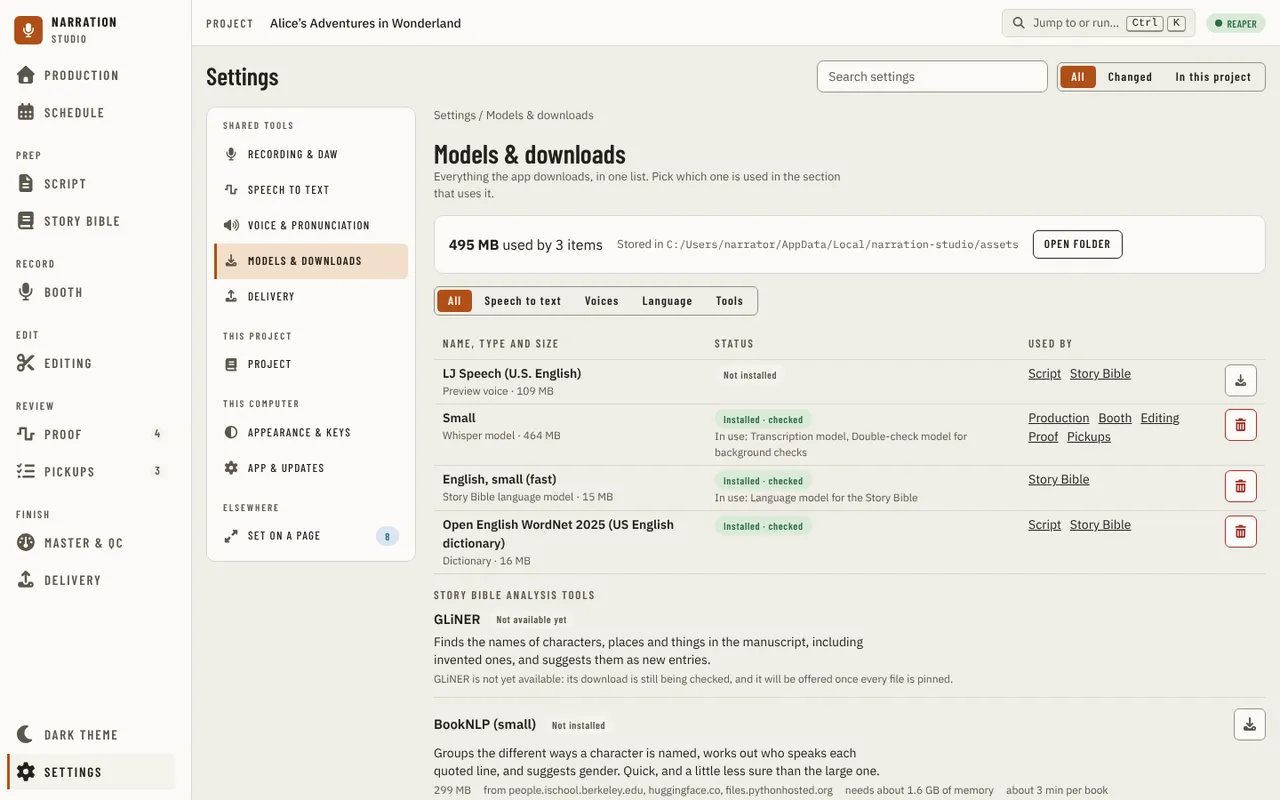
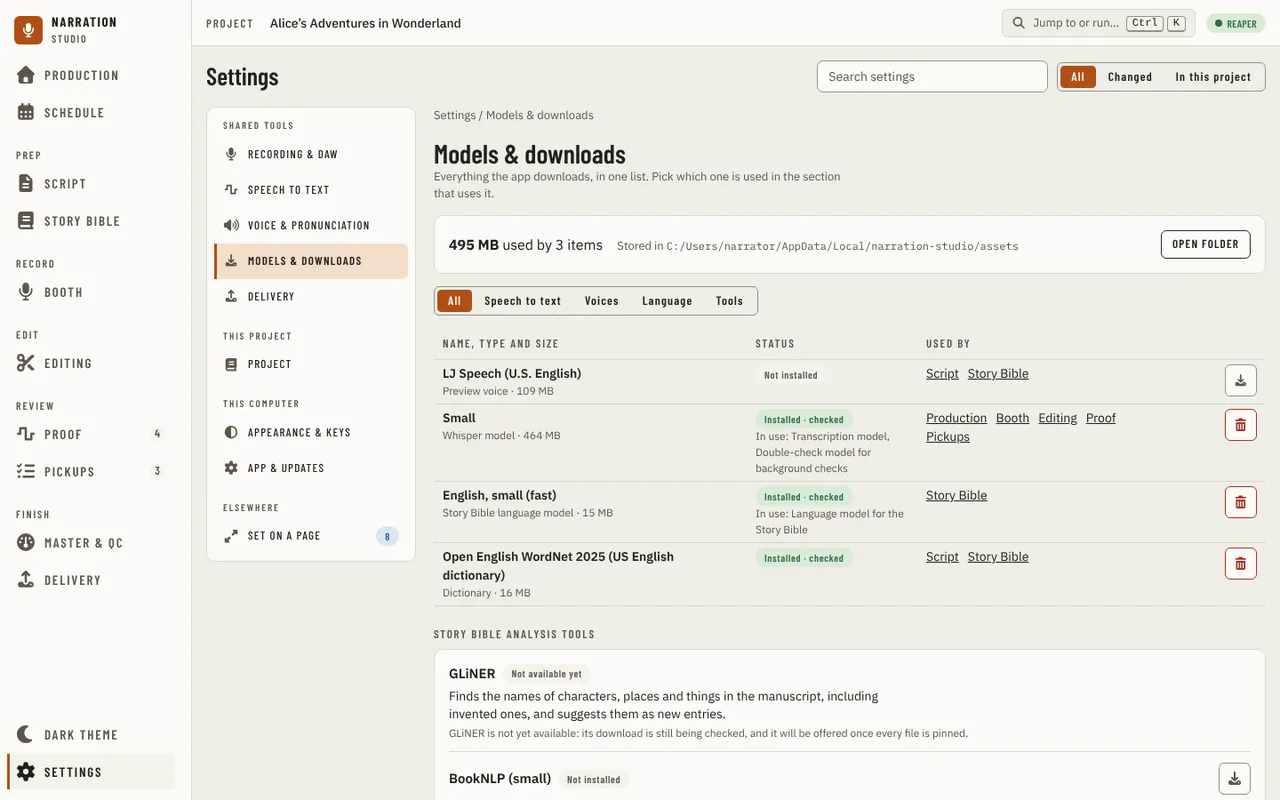
fix(settings): Models & downloads keeps fixed columns, actions beside the asset (#2388)

diff --git a/src/studio/ui/src/components/settings/models/AssetRow.tsx b/src/studio/ui/src/components/settings/models/AssetRow.tsx
@@ -9,12 +9,21 @@ import { formatSize } from '../../assets/AssetFacts';
 import { PAGE_LABEL, PAGE_PATH, type UsedPage } from '../registry/types';
 import type { AssetView } from './AssetsStore';
 
-/** Below the page's 1020px container a row is a card: each cell on its own line, named by its `data-label`. */
+/**
+ * Below the page's 1020px container a row is a card on the card surface: the name and its actions on the first line (the action stays beside
+ * the asset it acts on), then Status and Used by, each named by its `data-label` (alignment audit XSE2-27, XSE1-14).
+ */
+// The grid placement (columns, spans, the first line) and the radius are unprefixed: a table row and its cells ignore them, so only the card
+// layout below 1020px uses them, and the page keeps to its count of off-vocabulary width variants (layoutQueries.test.ts).
 const CARD_ROW =
-  '@max-[1020px]:mb-2.5 @max-[1020px]:block @max-[1020px]:rounded-lg @max-[1020px]:border @max-[1020px]:border-[var(--border)] @max-[1020px]:py-1.5';
+  'grid-cols-[minmax(0,1fr)_auto] rounded-lg @max-[1020px]:mb-2.5 @max-[1020px]:grid @max-[1020px]:border @max-[1020px]:border-[var(--border)] @max-[1020px]:bg-[var(--surface)] @max-[1020px]:py-1.5';
 const CARD_CELL = '@max-[1020px]:block @max-[1020px]:h-auto @max-[1020px]:border-b-0 @max-[1020px]:py-1 @max-[1020px]:break-words';
+const CARD_WIDE = 'col-span-2';
 const CARD_LABEL =
   "@max-[1020px]:before:mr-1.5 @max-[1020px]:before:font-['Barlow_Condensed',sans-serif] @max-[1020px]:before:text-[length:var(--font-size-label)] @max-[1020px]:before:font-semibold @max-[1020px]:before:tracking-[var(--tracking-label)] @max-[1020px]:before:text-[var(--text-muted)] @max-[1020px]:before:uppercase @max-[1020px]:before:content-[attr(data-label)]";
+
+/** The table's columns (`Table columns`): the name takes what is left, the others keep one width in every state, so nothing moves between states. */
+export const ASSET_COLUMNS = ['auto', '12rem', '18rem', '6.5rem'] as const;
 
 function Cell({ label, className = '', children }: { label?: string; className?: string; children: React.ReactNode }) {
   return (
@@ -48,7 +57,7 @@ export function AssetRow({ view, pages, inUse, go, install, cancel, remove, dism
   return (
     <TableRow data={{ 'data-asset': `${item.kind}/${item.id}`, 'data-status': status }} className={CARD_ROW}>
       {/* native-control-ok: the row header of the asset table; it becomes a card heading at narrow widths (CARD_CELL) */}
-      <th scope="row" className={`${TABLE_CELL_CLASS} text-left align-top font-normal ${CARD_CELL}`}>
+      <th scope="row" className={`${TABLE_CELL_CLASS} text-left align-top font-normal ${CARD_CELL} row-start-1`}>
         <b className="font-semibold">{name}</b>
         <span className="block text-[0.75rem] text-[var(--text-muted)]">
           {item.kindLabel}
@@ -56,7 +65,7 @@ export function AssetRow({ view, pages, inUse, go, install, cancel, remove, dism
         </span>
         {item.description && <span className="block text-[0.8125rem]">{item.description}</span>}
       </th>
-      <Cell label="Status">
+      <Cell label="Status" className={CARD_WIDE}>
         <StatusBadge tone={tone} label={status === 'downloading' ? `Downloading ${view.percent}%` : label} />
         {status === 'installed' && inUse.length > 0 && <span className="block text-[0.75rem] text-[var(--text-muted)]">In use: {inUse.join(', ')}</span>}
         {busy && (
@@ -69,7 +78,7 @@ export function AssetRow({ view, pages, inUse, go, install, cancel, remove, dism
               size="thin"
               valueText={status === 'verifying' ? 'Checking' : undefined}
             />
-            <span className="text-[0.75rem] text-[var(--text-muted)]">{status === 'verifying' ? 'Checking…' : `${view.percent}%`}</span>
+            {status === 'verifying' && <span className="text-[0.75rem] text-[var(--text-muted)]">Checking…</span>}
           </span>
         )}
         {status === 'failed' && view.failure && (
@@ -80,8 +89,8 @@ export function AssetRow({ view, pages, inUse, go, install, cancel, remove, dism
         {status === 'repair' && <span className="block text-[0.75rem] text-[var(--text-muted)]">A file failed its check.</span>}
         {status === 'unavailable' && <span className="block text-[0.75rem] text-[var(--text-muted)]">{item.unavailableReason}</span>}
       </Cell>
-      <Cell label="Used by">
-        <span className="inline-flex max-w-[14.375rem] flex-wrap gap-x-2.5">
+      <Cell label="Used by" className={CARD_WIDE}>
+        <span className="inline-flex flex-wrap gap-x-2.5">
           {pages.map((page) => (
             <Button
               key={page}
@@ -95,8 +104,8 @@ export function AssetRow({ view, pages, inUse, go, install, cancel, remove, dism
           ))}
         </span>
       </Cell>
-      <Cell className="w-px whitespace-nowrap">
-        <span className="inline-flex gap-1">
+      <Cell className="col-start-2 row-start-1 whitespace-nowrap">
+        <span className="flex justify-end gap-1">
           {status === 'missing' && <IconButton action="download" label={`Download ${name} (${size})`} onClick={install} />}
           {status === 'installed' && <IconButton action="remove" variant="danger" label={`Remove ${name}`} aria-haspopup="dialog" onClick={remove} />}
           {busy && <IconButton action="cancelDownload" label={`Cancel the download of ${name}`} onClick={cancel} />}

diff --git a/src/studio/ui/src/components/settings/page/ModelsPane.tsx b/src/studio/ui/src/components/settings/page/ModelsPane.tsx
@@ -11,7 +11,7 @@ import { Table, TableBody, TableHead, TableHeader, TableRow } from '../../primit
 import { ToggleGroup } from '../../primitives/ToggleGroup';
 import { AnalysisToolsSection } from '../analysis/AnalysisToolsSection';
 import { useSettingsStore } from '../data/SettingsStore';
-import { AssetRow } from '../models/AssetRow';
+import { ASSET_COLUMNS, AssetRow } from '../models/AssetRow';
 import { assetKey, useAssetsStore, type AssetView } from '../models/AssetsStore';
 import { planRemoval, settingLabel, usesOf } from '../models/assetUse';
 import { ASSET_FILTERS, assetPages, GROUP_OF_KIND, RECOMMENDED_SET, type AssetGroup } from '../registry/assets';
@@ -49,7 +49,7 @@ export function ModelsPane({ category }: { category: Category }) {
       role={notice.tone === 'alert' ? 'alert' : 'status'}
       tone={notice.tone === 'alert' ? 'danger' : 'neutral'}
       fill={notice.tone !== 'alert'}
-      className="m-0"
+      className="m-0 text-[0.875rem] text-pretty"
     >
       {notice.text}
     </InsetCard>
@@ -79,10 +79,10 @@ export function ModelsPane({ category }: { category: Category }) {
     return (
       <div className="flex flex-col gap-3">
         <Heading category={category} />
-        <InsetCard tone="danger" role="alert" className="flex flex-col items-start gap-1.5">
+        <InsetCard tone="danger" role="alert" className="flex flex-col items-start gap-1.5 text-[0.875rem]">
           <b>The list of models could not be read.</b>
           <span>{loadError} Your downloads are not touched.</span>
-          <div className="flex flex-wrap items-center gap-2">
+          <div className="mt-1.5 flex flex-wrap items-center gap-2">
             <Button variant="secondary" size="sm" onClick={() => void assets.refresh()}>
               Retry
             </Button>
@@ -154,14 +154,17 @@ export function ModelsPane({ category }: { category: Category }) {
     <div className="flex flex-col gap-3.5">
       <Heading category={category} />
       <Panel label="Disk use">
-        <div data-disk className="flex flex-wrap items-center gap-x-4 gap-y-2">
-          <span>
-            <b>{catalog.totalInstalledBytes > 0 ? formatSize(catalog.totalInstalledBytes) : '0 MB'}</b> used by {installed} {installed === 1 ? 'item' : 'items'}
-          </span>
-          <span className="text-[0.8125rem] text-[var(--text-muted)]">
-            Stored in <code className="font-['IBM_Plex_Mono',ui-monospace,monospace] text-[0.75rem] [overflow-wrap:anywhere]">{catalog.cacheRoot}</code>
-          </span>
-          <Button variant="secondary" size="sm" onClick={openFolder}>
+        <div data-disk className="flex items-center gap-4">
+          <div className="flex min-w-0 flex-1 flex-wrap items-baseline gap-x-4 gap-y-1">
+            <span>
+              <b>{catalog.totalInstalledBytes > 0 ? formatSize(catalog.totalInstalledBytes) : '0 MB'}</b> used by {installed}{' '}
+              {installed === 1 ? 'item' : 'items'}
+            </span>
+            <span className="min-w-0 text-[0.8125rem] text-[var(--text-muted)]">
+              Stored in <code className="font-['IBM_Plex_Mono',ui-monospace,monospace] text-[0.75rem] [overflow-wrap:anywhere]">{catalog.cacheRoot}</code>
+            </span>
+          </div>
+          <Button variant="secondary" size="sm" className="flex-none" onClick={openFolder}>
             Open folder
           </Button>
         </div>
@@ -171,7 +174,7 @@ export function ModelsPane({ category }: { category: Category }) {
         <Panel label="Nothing is downloaded yet">
           <div className="flex flex-col items-start gap-2.5">
             <b>Nothing is downloaded yet</b>
-            <p className="m-0 max-w-[50ch]">
+            <p className="m-0 max-w-[62ch]">
               The app needs a transcription model to check recordings and a voice to preview names. The recommended pair is about 600 MB.
             </p>
             <Button pending={recommendedBusy} onClick={downloadRecommended}>
@@ -180,8 +183,19 @@ export function ModelsPane({ category }: { category: Category }) {
           </div>
         </Panel>
       )}
-      <ToggleGroup label="Show" look="segmented" value={filter} onChange={(next) => setFilter(next as Filter)} options={ASSET_FILTERS} className="self-start" />
-      <Table label="Models, voices and tools" className="@max-[1020px]:block @max-[1020px]:[&_tbody]:block @max-[1020px]:[&_thead]:sr-only">
+      <ToggleGroup
+        label="Show"
+        look="segmented"
+        value={filter}
+        onChange={(next) => setFilter(next as Filter)}
+        options={ASSET_FILTERS}
+        className="max-w-full self-start overflow-x-auto whitespace-nowrap"
+      />
+      <Table
+        label="Models, voices and tools"
+        columns={ASSET_COLUMNS}
+        className="@max-[1020px]:block @max-[1020px]:[&_tbody]:block @max-[1020px]:[&_thead]:sr-only"
+      >
         <TableHead>
           <TableRow>
             <TableHeader>Name, type and size</TableHeader>

diff --git a/src/studio/ui/src/components/settings/page/ModelsPane.test.tsx b/src/studio/ui/src/components/settings/page/ModelsPane.test.tsx
@@ -120,6 +120,54 @@ describe('Settings: Models & downloads', () => {
     expect(document.querySelector('[data-disk]')!.textContent).toContain('assets');
   });
 
+  // Alignment audit, Models & downloads (XSE1-5, XSE2-25, XSE2-27, XSE1-14, R3SE2-5, XSE1-17, XSE1-18, XSE1-28).
+  it('fixes the table columns so they do not move between states, and right-aligns the actions of each row', async () => {
+    await renderModels();
+    const small = await ready('whisper/small');
+    const table = screen.getByRole('table', { name: 'Models, voices and tools' });
+    expect(table.className).toContain('table-fixed');
+    expect([...table.querySelectorAll('col')].map((col) => col.style.width)).toEqual(['', '12rem', '18rem', '6.5rem']);
+    const actions = within(small)
+      .getByRole('button', { name: /^Remove Small/ })
+      .closest('td')!.firstElementChild!;
+    expect(actions.className).toContain('justify-end');
+    // The Used by links take their column; nothing narrower wraps them early.
+    expect(within(small).getByRole('button', { name: 'Used by Proof. Go to Proof' }).parentElement!.className).not.toMatch(/max-w-/);
+  });
+
+  it('as a card, keeps the actions on the name line and draws the card on the card surface', async () => {
+    await renderModels();
+    const small = await ready('whisper/small');
+    expect(small.className).toContain('@max-[1020px]:grid');
+    expect(small.className).toContain('@max-[1020px]:bg-[var(--surface)]');
+    const actionCell = within(small)
+      .getByRole('button', { name: /^Remove Small/ })
+      .closest('td')!;
+    expect(actionCell.className).toContain('row-start-1');
+    expect(actionCell.className).toContain('col-start-2');
+  });
+
+  it('keeps Open folder at the end of the disk bar, not wrapped under the path', async () => {
+    await renderModels();
+    const open = within(document.querySelector<HTMLElement>('[data-disk]')!).getByRole('button', { name: 'Open folder' });
+    expect(open.className).toContain('flex-none');
+    expect(open.parentElement!.getAttribute('data-disk')).not.toBeNull();
+    expect(document.querySelector('[data-disk]')!.className).not.toContain('flex-wrap');
+  });
+
+  it('draws the analysis tools in a card under their label, like the list above', async () => {
+    await renderModels();
+    await waitFor(() => expect(document.querySelector('[data-component="gliner"]')).not.toBeNull());
+    expect(document.querySelector('[data-component="gliner"]')!.closest('section[aria-label="Story Bible analysis tools"]')).toBeTruthy();
+  });
+
+  it('keeps the segmented filter on one line, scrolling sideways when the page is too narrow', async () => {
+    await renderModels();
+    const filter = within(document.getElementById('settings-pane')!).getByRole('group', { name: 'Show' });
+    expect(filter.className).toContain('whitespace-nowrap');
+    expect(filter.className).toContain('overflow-x-auto');
+  });
+
   it('keeps the analysis tools out of the table and draws them below it', async () => {
     await renderModels();
     await ready('whisper/small');

diff --git a/src/studio/ui/src/components/settings/analysis/AnalysisToolsSection.tsx b/src/studio/ui/src/components/settings/analysis/AnalysisToolsSection.tsx
@@ -15,7 +15,7 @@ import { useAnalysisTools, useComponentsPort } from './useAnalysisTools';
 /**
  * Settings > Story Bible analysis, the mock's panel of that name after Story Bible types: the optional tools that make the Story Bible scan better, from the asset registry. Nothing downloads until the
  * narrator agrees in the consent; several start one after another. Below them, whether a scan offers them first
- * (`ManuscriptGuide.analysis_prompt`). `bare` draws it under a heading, with no panel, below the Models & downloads list.
+ * (`ManuscriptGuide.analysis_prompt`). `bare` draws it under a section label, in an untitled card, below the Models & downloads list.
  */
 export function AnalysisToolsSection({ bare = false }: { bare?: boolean }) {
   const tools = useAnalysisTools(useComponentsPort());
@@ -45,7 +45,7 @@ export function AnalysisToolsSection({ bare = false }: { bare?: boolean }) {
   };
 
   return (
-    <div id="settings-analysis" className="scroll-mt-4">
+    <div id="settings-analysis" className={`scroll-mt-4 ${bare ? 'mt-2' : ''}`}>
       {bare && (
         <SectionLabel as="h3" className="mb-1.5">
           Story Bible analysis tools
@@ -121,7 +121,7 @@ export function AnalysisToolsSection({ bare = false }: { bare?: boolean }) {
   );
 }
 
-/** The tools in the panel the page of their own draws, or bare under a heading of the Models & downloads list. */
+/** The tools in the panel the page of their own draws, or an untitled card under a section label of the Models & downloads list. */
 function Wrap({ bare, children }: { bare: boolean; children: React.ReactNode }) {
-  return bare ? <>{children}</> : <Panel title="Story Bible analysis">{children}</Panel>;
+  return bare ? <Panel label="Story Bible analysis tools">{children}</Panel> : <Panel title="Story Bible analysis">{children}</Panel>;
 }

diff --git a/docs/design/design-system.md b/docs/design/design-system.md
@@ -211,7 +211,7 @@ The Settings page always keeps every setting. A working page may also offer a co
 
 **Adding a field.** Add it to `fieldSchemas` (Go) and give it a default in `config/defaults.json` and in `builtinDefaults` (`internal/settings/store.go`; a test keeps them equal) and in `mockFixtures.ts`. It needs no visual-suite work unless it is a new panel, which is a new `settings` catalog row with `...REFLOW`. The suite then checks the row at 390 px: a text box or select narrower than 64 px fails, and the PNG at `screenshots/app/settings/<state>/reflow.png` is one to look at with the other viewports. The first `bool` field also needs its own state so the Switch row is captured; none ships yet (the notification and Build Story Bible after import settings, are the first).
 
-**Models & downloads.** The Models & downloads list is one table row per asset (`src/studio/ui/src/components/settings/models/AssetRow.tsx`): the asset name and what it is for, a status badge in words, the pages that read it, a `ProgressBar` while it downloads, a failure as `role="alert"` in the row, and its actions as icon buttons in the last cell. Below the page container's 1020 px the table becomes cards, one per asset, with each cell named by its label. The page announces progress and results in one live region.
+**Models & downloads.** The Models & downloads list is one table row per asset (`src/studio/ui/src/components/settings/models/AssetRow.tsx`): the asset name and what it is for, a status badge in words, the pages that read it, a `ProgressBar` while it downloads, a failure as `role="alert"` in the row, and its actions as icon buttons in the last cell, right-aligned. The columns are fixed (`Table columns`, `ASSET_COLUMNS`: the name takes what is left, Status 12rem, Used by 18rem, actions 6.5rem), so the table keeps one shape in every state and no column wraps its links early (alignment audit XSE1-5, XSE2-25). Below the page container's 1020 px the table becomes cards on `--surface`, one per asset: the name with its actions at the top right, then Status and Used by, each named by its label (XSE2-27). The disk bar keeps **Open folder** at its right end, and the Story Bible analysis tools sit in an untitled card under their section label, like the list above them (XSE1-17). The segmented filter stays on one line and scrolls sideways when the page is narrower. The page announces progress and results in one live region.
 
 **Known at 390 px, outside Settings** (found by a one-off sweep of every state at that width; the collapsed-control check passes everywhere): the Proofing results header and table (#148), the Home chapter table (#149) and a three-action confirm dialog (#150) are clipped or cramped. They need layout decisions and are reachable only by zoom, since the shell's minimum window is 960 px.
 

diff --git a/docs/guides/using-the-app/settings.md b/docs/guides/using-the-app/settings.md
@@ -173,7 +173,7 @@ Which one is *used* is chosen in the category that uses it; here you only get, c
 
 ![Settings - Models & downloads: the disk used and each download with its state, size, what uses it and its actions](../../images/ui/settings-models.webp)
 
-Each row says what it is, its type and size, its **Status**, **Used by** (pages) and **In use** (the settings that choose it). The status is one of:
+Each row says what it is, its type and size, its **Status**, **Used by** (pages) and **In use** (the settings that choose it), with its buttons at the right end of the row. On a narrower window each row is a card with its buttons beside the name. The status is one of:
 
 - **Not installed**: **Download** starts the download. A bar shows the real bytes so far and **Cancel** stops it while bytes are arriving; the checks after the last byte cannot be cancelled. A download that is already running when you open the page (started by a Story Bible build, a preview or a comparison) is shown too, and leaving the page does not stop it.
 - **Downloading** and **Checking the download**: the download itself, then the check of every file against its approved size and checksum.
